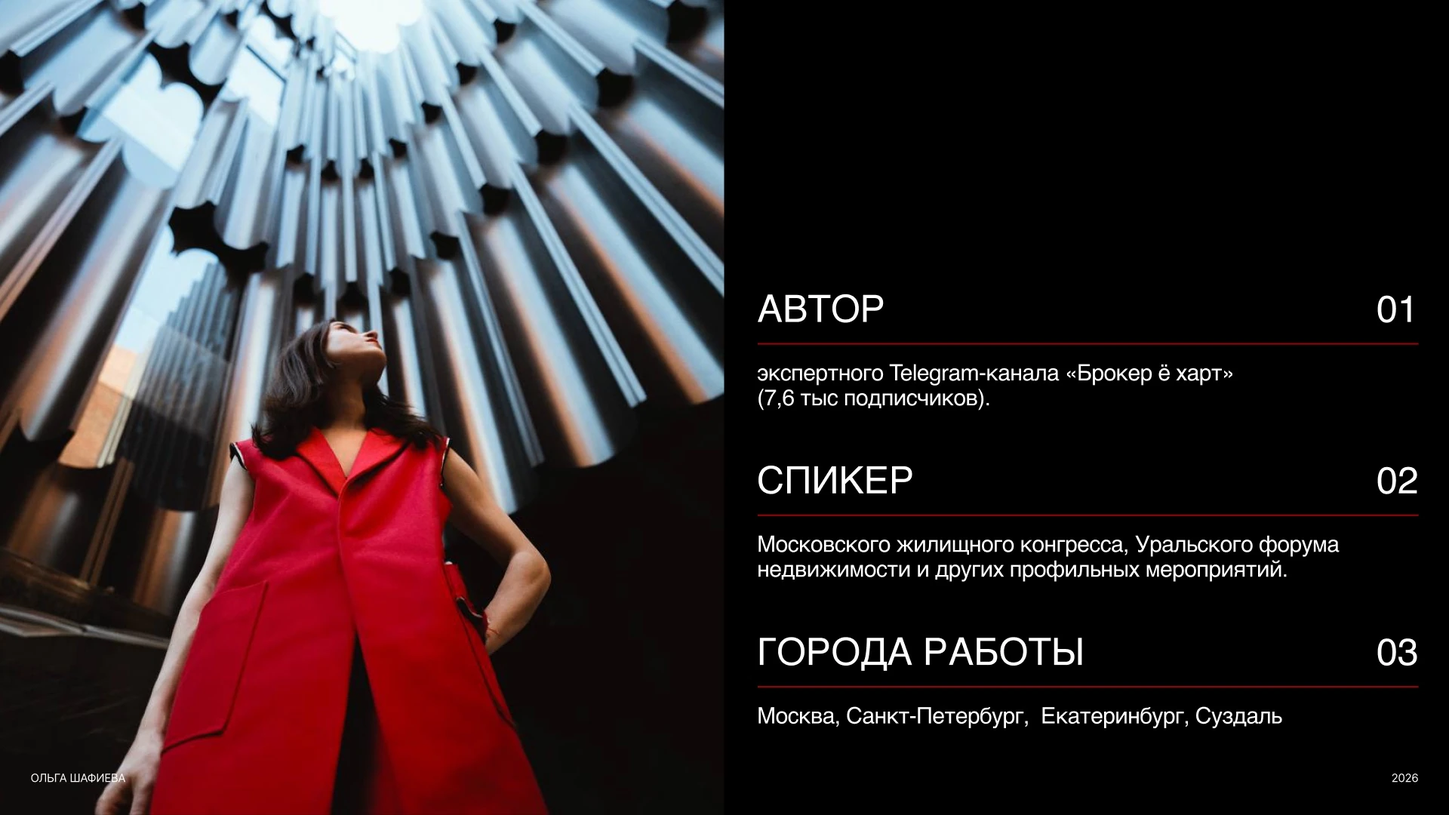
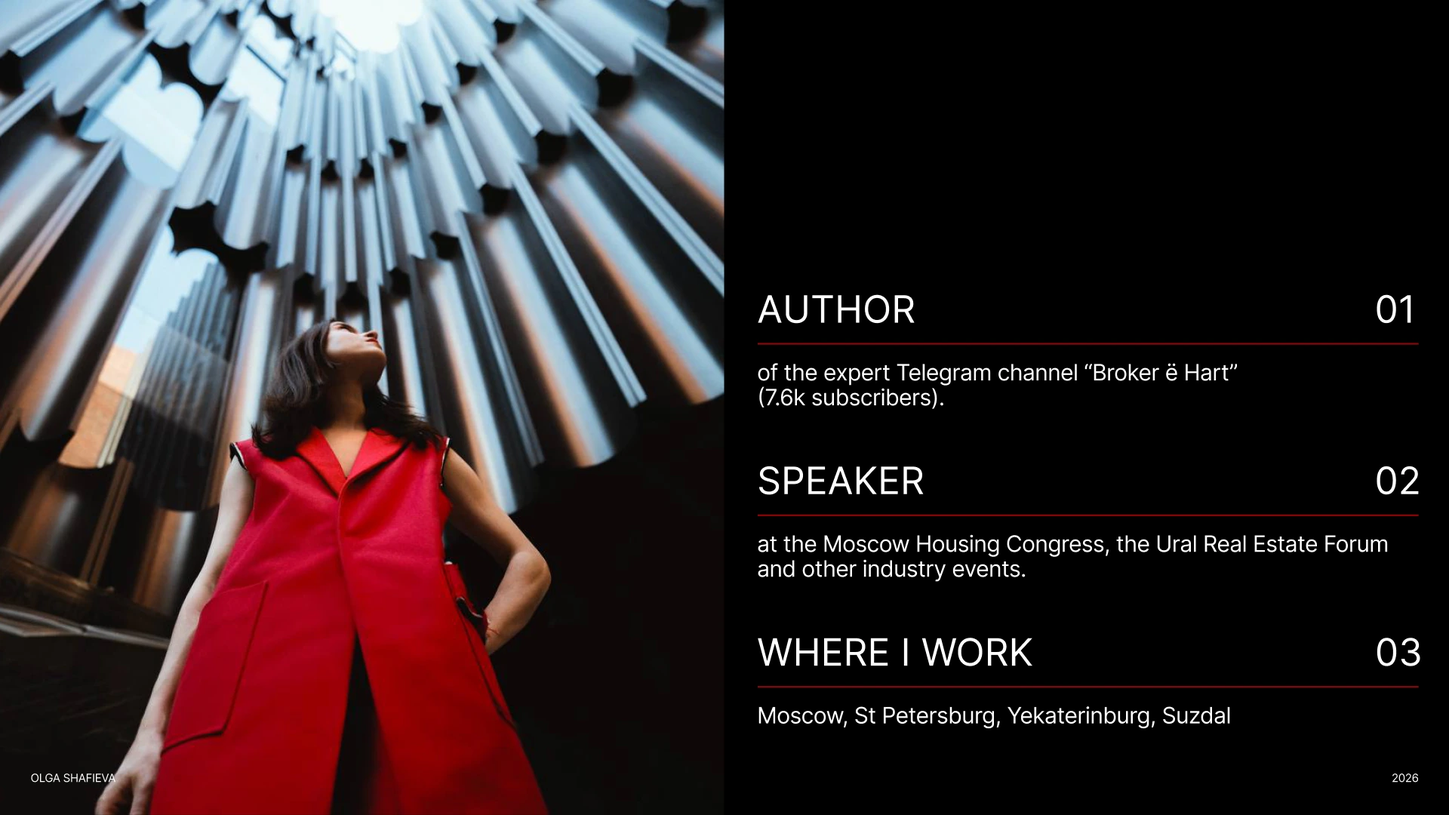
Update Olga Shafieva case with revised English slides

diff --git a/ru/projects/olga-shafieva.html b/ru/projects/olga-shafieva.html
@@ -19,14 +19,14 @@
   <meta property="og:url" content="https://byannadmitrieva.com/ru/projects/olga-shafieva.html">
   <meta property="og:site_name" content="Портфолио Анны Дмитриевой">
   <meta property="og:locale" content="ru_RU">
-  <meta property="og:image" content="https://byannadmitrieva.com/assets/projects/olga-shafieva/olga-01.webp">
+  <meta property="og:image" content="https://byannadmitrieva.com/assets/projects/olga-shafieva/olga-01.webp?v=20261105-en">
   <meta property="og:image:width" content="1920">
   <meta property="og:image:height" content="1080">
   <meta property="og:image:alt" content="Обложка презентации Ольги Шафиевой с портретом на светлом фоне">
   <meta name="twitter:card" content="summary_large_image">
   <meta name="twitter:title" content="Ольга Шафиева — Anna Dmitrieva">
   <meta name="twitter:description" content="Имиджевая презентация на пересечении недвижимости и искусства. Два направления личного бренда — в одной визуальной истории.">
-  <meta name="twitter:image" content="https://byannadmitrieva.com/assets/projects/olga-shafieva/olga-01.webp">
+  <meta name="twitter:image" content="https://byannadmitrieva.com/assets/projects/olga-shafieva/olga-01.webp?v=20261105-en">
   <meta name="twitter:image:alt" content="Обложка презентации Ольги Шафиевой с портретом на светлом фоне">
   <link rel="preload" href="../../assets/fonts/inter-latin.woff2" as="font" type="font/woff2" crossorigin>
   <link rel="preload" href="../../assets/fonts/inter-cyrillic.woff2" as="font" type="font/woff2" crossorigin>
@@ -73,23 +73,23 @@
         </div>
       </div>
       <div class="case-gallery olga-gallery">
-        <figure class="media wide reveal-media"><a href="../../assets/projects/olga-shafieva/olga-01.webp" target="_blank" rel="noopener noreferrer" aria-label="Открыть слайд в полном размере: Обложка презентации Ольги Шафиевой с портретом на светлом фоне"><img src="../../assets/projects/olga-shafieva/olga-01.webp" alt="Обложка презентации Ольги Шафиевой с портретом на светлом фоне" fetchpriority="high" decoding="async" width="1920" height="1080"></a></figure>
+        <figure class="media wide reveal-media"><a href="../../assets/projects/olga-shafieva/olga-01.webp?v=20261105-en" target="_blank" rel="noopener noreferrer" aria-label="Открыть слайд в полном размере: Обложка презентации Ольги Шафиевой с портретом на светлом фоне"><img src="../../assets/projects/olga-shafieva/olga-01.webp?v=20261105-en" alt="Обложка презентации Ольги Шафиевой с портретом на светлом фоне" fetchpriority="high" decoding="async" width="1920" height="1080"></a></figure>
         <p class="case-caption">Каждый слайд можно открыть в полном размере.</p>
         <div class="case-story"><h2>Две экспертизы.<br>Один визуальный язык.</h2><p>Недвижимость и арт-консалтинг объединены через личность эксперта. Портреты, выразительная типографика и архитектурная фотография формируют цельный образ.</p></div>
-        <figure class="media wide reveal-media"><a href="../../assets/projects/olga-shafieva/olga-02.webp" target="_blank" rel="noopener noreferrer" aria-label="Открыть слайд в полном размере: Два направления деятельности: брокеридж и арт-консалтинг"><img src="../../assets/projects/olga-shafieva/olga-02.webp" alt="Два направления деятельности: брокеридж и арт-консалтинг" loading="lazy" decoding="async" width="1920" height="1080"></a></figure>
+        <figure class="media wide reveal-media"><a href="../../assets/projects/olga-shafieva/olga-02.webp?v=20261105-en" target="_blank" rel="noopener noreferrer" aria-label="Открыть слайд в полном размере: Два направления деятельности: брокеридж и арт-консалтинг"><img src="../../assets/projects/olga-shafieva/olga-02.webp?v=20261105-en" alt="Два направления деятельности: брокеридж и арт-консалтинг" loading="lazy" decoding="async" width="1920" height="1080"></a></figure>
         <div class="case-story"><h2>Недвижимость<br>через личность.</h2><p>Чередование портретных и информационных слайдов задаёт ритм презентации. Личная история становится отправной точкой для знакомства с экспертизой и подходом к работе.</p></div>
-        <figure class="media wide reveal-media"><a href="../../assets/projects/olga-shafieva/olga-03.webp" target="_blank" rel="noopener noreferrer" aria-label="Открыть слайд в полном размере: Слайд о брокеридже с портретом в архитектурном пространстве"><img src="../../assets/projects/olga-shafieva/olga-03.webp" alt="Слайд о брокеридже с портретом в архитектурном пространстве" loading="lazy" decoding="async" width="1920" height="1080"></a></figure>
-        <figure class="media pair-left reveal-media"><a href="../../assets/projects/olga-shafieva/olga-04.webp" target="_blank" rel="noopener noreferrer" aria-label="Открыть слайд в полном размере: Портрет в красном и информация об авторе, выступлениях и городах работы"><img src="../../assets/projects/olga-shafieva/olga-04.webp" alt="Портрет в красном и информация об авторе, выступлениях и городах работы" loading="lazy" decoding="async" width="1920" height="1080"></a></figure>
-        <figure class="media pair-right reveal-media"><a href="../../assets/projects/olga-shafieva/olga-05.webp" target="_blank" rel="noopener noreferrer" aria-label="Открыть слайд в полном размере: Опыт в недвижимости: портрет и три блока экспертизы"><img src="../../assets/projects/olga-shafieva/olga-05.webp" alt="Опыт в недвижимости: портрет и три блока экспертизы" loading="lazy" decoding="async" width="1920" height="1080"></a></figure>
+        <figure class="media wide reveal-media"><a href="../../assets/projects/olga-shafieva/olga-03.webp?v=20261105-en" target="_blank" rel="noopener noreferrer" aria-label="Открыть слайд в полном размере: Слайд о брокеридже с портретом в архитектурном пространстве"><img src="../../assets/projects/olga-shafieva/olga-03.webp?v=20261105-en" alt="Слайд о брокеридже с портретом в архитектурном пространстве" loading="lazy" decoding="async" width="1920" height="1080"></a></figure>
+        <figure class="media pair-left reveal-media"><a href="../../assets/projects/olga-shafieva/olga-04.webp?v=20261105-en" target="_blank" rel="noopener noreferrer" aria-label="Открыть слайд в полном размере: Портрет в красном и информация об авторе, выступлениях и городах работы"><img src="../../assets/projects/olga-shafieva/olga-04.webp?v=20261105-en" alt="Портрет в красном и информация об авторе, выступлениях и городах работы" loading="lazy" decoding="async" width="1920" height="1080"></a></figure>
+        <figure class="media pair-right reveal-media"><a href="../../assets/projects/olga-shafieva/olga-05.webp?v=20261105-en" target="_blank" rel="noopener noreferrer" aria-label="Открыть слайд в полном размере: Опыт в недвижимости: портрет и три блока экспертизы"><img src="../../assets/projects/olga-shafieva/olga-05.webp?v=20261105-en" alt="Опыт в недвижимости: портрет и три блока экспертизы" loading="lazy" decoding="async" width="1920" height="1080"></a></figure>
         <div class="case-story"><h2>От образа<br>к ясной структуре.</h2><p>Слайды о покупке и продаже выстроены по одной сетке: этапы работы слева, интерьерная фотография справа. Повторяемая композиция помогает ориентироваться в информации.</p></div>
-        <figure class="media pair-left reveal-media"><a href="../../assets/projects/olga-shafieva/olga-06.webp" target="_blank" rel="noopener noreferrer" aria-label="Открыть слайд в полном размере: Покупка недвижимости: этапы работы и интерьер с террасой"><img src="../../assets/projects/olga-shafieva/olga-06.webp" alt="Покупка недвижимости: этапы работы и интерьер с террасой" loading="lazy" decoding="async" width="1920" height="1080"></a></figure>
-        <figure class="media pair-right reveal-media"><a href="../../assets/projects/olga-shafieva/olga-07.webp" target="_blank" rel="noopener noreferrer" aria-label="Открыть слайд в полном размере: Продажа недвижимости: этапы работы и интерьер квартиры"><img src="../../assets/projects/olga-shafieva/olga-07.webp" alt="Продажа недвижимости: этапы работы и интерьер квартиры" loading="lazy" decoding="async" width="1920" height="1080"></a></figure>
+        <figure class="media pair-left reveal-media"><a href="../../assets/projects/olga-shafieva/olga-06.webp?v=20261105-en" target="_blank" rel="noopener noreferrer" aria-label="Открыть слайд в полном размере: Покупка недвижимости: этапы работы и интерьер с террасой"><img src="../../assets/projects/olga-shafieva/olga-06.webp?v=20261105-en" alt="Покупка недвижимости: этапы работы и интерьер с террасой" loading="lazy" decoding="async" width="1920" height="1080"></a></figure>
+        <figure class="media pair-right reveal-media"><a href="../../assets/projects/olga-shafieva/olga-07.webp?v=20261105-en" target="_blank" rel="noopener noreferrer" aria-label="Открыть слайд в полном размере: Продажа недвижимости: этапы работы и интерьер квартиры"><img src="../../assets/projects/olga-shafieva/olga-07.webp?v=20261105-en" alt="Продажа недвижимости: этапы работы и интерьер квартиры" loading="lazy" decoding="async" width="1920" height="1080"></a></figure>
         <div class="case-story"><h2>Искусство как продолжение<br>пространства.</h2><p>Во второй части меняется настроение: скульптура, насыщенный синий и красный акценты раскрывают тему арт-консалтинга. Общая типографическая система связывает оба направления.</p></div>
-        <figure class="media wide reveal-media"><a href="../../assets/projects/olga-shafieva/olga-09.webp" target="_blank" rel="noopener noreferrer" aria-label="Открыть слайд в полном размере: Арт-консалтинг: портрет в синем рядом со скульптурой"><img src="../../assets/projects/olga-shafieva/olga-09.webp" alt="Арт-консалтинг: портрет в синем рядом со скульптурой" loading="lazy" decoding="async" width="1920" height="1080"></a></figure>
-        <figure class="media wide reveal-media"><a href="../../assets/projects/olga-shafieva/olga-10.webp" target="_blank" rel="noopener noreferrer" aria-label="Открыть слайд в полном размере: Опыт в арт-консалтинге: красная композиция и портрет"><img src="../../assets/projects/olga-shafieva/olga-10.webp" alt="Опыт в арт-консалтинге: красная композиция и портрет" loading="lazy" decoding="async" width="1920" height="1080"></a></figure>
+        <figure class="media wide reveal-media"><a href="../../assets/projects/olga-shafieva/olga-09.webp?v=20261105-en" target="_blank" rel="noopener noreferrer" aria-label="Открыть слайд в полном размере: Арт-консалтинг: портрет в синем рядом со скульптурой"><img src="../../assets/projects/olga-shafieva/olga-09.webp?v=20261105-en" alt="Арт-консалтинг: портрет в синем рядом со скульптурой" loading="lazy" decoding="async" width="1920" height="1080"></a></figure>
+        <figure class="media wide reveal-media"><a href="../../assets/projects/olga-shafieva/olga-10.webp?v=20261105-en" target="_blank" rel="noopener noreferrer" aria-label="Открыть слайд в полном размере: Опыт в арт-консалтинге: красная композиция и портрет"><img src="../../assets/projects/olga-shafieva/olga-10.webp?v=20261105-en" alt="Опыт в арт-консалтинге: красная композиция и портрет" loading="lazy" decoding="async" width="1920" height="1080"></a></figure>
         <div class="case-story"><h2>Разные задачи.<br>Цельная подача.</h2><p>Архитектура, интерьеры и искусство складываются в единую историю. Крупные заголовки, контрастные фотографии и спокойные текстовые блоки удерживают последовательность презентации.</p></div>
-        <figure class="media wide reveal-media"><a href="../../assets/projects/olga-shafieva/olga-08.webp" target="_blank" rel="noopener noreferrer" aria-label="Открыть слайд в полном размере: Специализация на первичном и вторичном рынках недвижимости"><img src="../../assets/projects/olga-shafieva/olga-08.webp" alt="Специализация на первичном и вторичном рынках недвижимости" loading="lazy" decoding="async" width="1920" height="1080"></a></figure>
-        <figure class="media wide reveal-media"><a href="../../assets/projects/olga-shafieva/olga-11.webp" target="_blank" rel="noopener noreferrer" aria-label="Открыть слайд в полном размере: Работа с частными клиентами, девелоперами и дизайнерами интерьера"><img src="../../assets/projects/olga-shafieva/olga-11.webp" alt="Работа с частными клиентами, девелоперами и дизайнерами интерьера" loading="lazy" decoding="async" width="1920" height="1080"></a></figure>
+        <figure class="media wide reveal-media"><a href="../../assets/projects/olga-shafieva/olga-08.webp?v=20261105-en" target="_blank" rel="noopener noreferrer" aria-label="Открыть слайд в полном размере: Специализация на первичном и вторичном рынках недвижимости"><img src="../../assets/projects/olga-shafieva/olga-08.webp?v=20261105-en" alt="Специализация на первичном и вторичном рынках недвижимости" loading="lazy" decoding="async" width="1920" height="1080"></a></figure>
+        <figure class="media wide reveal-media"><a href="../../assets/projects/olga-shafieva/olga-11.webp?v=20261105-en" target="_blank" rel="noopener noreferrer" aria-label="Открыть слайд в полном размере: Работа с частными клиентами, девелоперами и дизайнерами интерьера"><img src="../../assets/projects/olga-shafieva/olga-11.webp?v=20261105-en" alt="Работа с частными клиентами, девелоперами и дизайнерами интерьера" loading="lazy" decoding="async" width="1920" height="1080"></a></figure>
         <div class="case-credits"><p>Анна Дмитриева<br>Дизайн презентации</p><p>Ольга Шафиева<br>Недвижимость и арт-консалтинг</p></div>
       </div>
       <a class="next-project" href="beauty-value.html" style="--next:#8ca4b6">

diff --git a/de/projects/olga-shafieva.html b/de/projects/olga-shafieva.html
@@ -19,14 +19,14 @@
   <meta property="og:url" content="https://byannadmitrieva.com/de/projects/olga-shafieva.html">
   <meta property="og:site_name" content="Portfolio von Anna Dmitrieva">
   <meta property="og:locale" content="de_DE">
-  <meta property="og:image" content="https://byannadmitrieva.com/assets/projects/olga-shafieva/olga-01.webp">
+  <meta property="og:image" content="https://byannadmitrieva.com/assets/projects/olga-shafieva/olga-01.webp?v=20261105-en">
   <meta property="og:image:width" content="1920">
   <meta property="og:image:height" content="1080">
   <meta property="og:image:alt" content="Präsentationstitel für Olga Shafieva mit Porträt vor hellem Hintergrund">
   <meta name="twitter:card" content="summary_large_image">
   <meta name="twitter:title" content="Olga Shafieva — Anna Dmitrieva">
   <meta name="twitter:description" content="Eine persönliche Markenpräsentation zwischen Immobilien und Kunst. Zwei Kompetenzbereiche, verbunden in einer visuellen Geschichte.">
-  <meta name="twitter:image" content="https://byannadmitrieva.com/assets/projects/olga-shafieva/olga-01.webp">
+  <meta name="twitter:image" content="https://byannadmitrieva.com/assets/projects/olga-shafieva/olga-01.webp?v=20261105-en">
   <meta name="twitter:image:alt" content="Präsentationstitel für Olga Shafieva mit Porträt vor hellem Hintergrund">
   <link rel="preload" href="../../assets/fonts/inter-latin.woff2" as="font" type="font/woff2" crossorigin>
   <link rel="stylesheet" href="../../styles.css?v=20261104-olga">
@@ -72,23 +72,23 @@
         </div>
       </div>
       <div class="case-gallery olga-gallery">
-        <figure class="media wide reveal-media"><a href="../../assets/projects/olga-shafieva/olga-01.webp" target="_blank" rel="noopener noreferrer" aria-label="Folie in voller Größe öffnen: Präsentationstitel für Olga Shafieva mit Porträt vor hellem Hintergrund"><img src="../../assets/projects/olga-shafieva/olga-01.webp" alt="Präsentationstitel für Olga Shafieva mit Porträt vor hellem Hintergrund" fetchpriority="high" decoding="async" width="1920" height="1080"></a></figure>
+        <figure class="media wide reveal-media"><a href="../../assets/projects/olga-shafieva/olga-01.webp?v=20261105-en" target="_blank" rel="noopener noreferrer" aria-label="Folie in voller Größe öffnen: Präsentationstitel für Olga Shafieva mit Porträt vor hellem Hintergrund"><img src="../../assets/projects/olga-shafieva/olga-01.webp?v=20261105-en" alt="Präsentationstitel für Olga Shafieva mit Porträt vor hellem Hintergrund" fetchpriority="high" decoding="async" width="1920" height="1080"></a></figure>
         <p class="case-caption">Jede Folie lässt sich in voller Größe öffnen.</p>
         <div class="case-story"><h2>Zwei Disziplinen.<br>Eine visuelle Sprache.</h2><p>Immobilien und Kunstberatung werden durch die Persönlichkeit der Expertin verbunden. Porträts, ausdrucksstarke Typografie und Architekturfotografie schaffen einen stimmigen Auftritt.</p></div>
-        <figure class="media wide reveal-media"><a href="../../assets/projects/olga-shafieva/olga-02.webp" target="_blank" rel="noopener noreferrer" aria-label="Folie in voller Größe öffnen: Zwei Tätigkeitsbereiche: Immobilienvermittlung und Kunstberatung"><img src="../../assets/projects/olga-shafieva/olga-02.webp" alt="Zwei Tätigkeitsbereiche: Immobilienvermittlung und Kunstberatung" loading="lazy" decoding="async" width="1920" height="1080"></a></figure>
+        <figure class="media wide reveal-media"><a href="../../assets/projects/olga-shafieva/olga-02.webp?v=20261105-en" target="_blank" rel="noopener noreferrer" aria-label="Folie in voller Größe öffnen: Zwei Tätigkeitsbereiche: Immobilienvermittlung und Kunstberatung"><img src="../../assets/projects/olga-shafieva/olga-02.webp?v=20261105-en" alt="Zwei Tätigkeitsbereiche: Immobilienvermittlung und Kunstberatung" loading="lazy" decoding="async" width="1920" height="1080"></a></figure>
         <div class="case-story"><h2>Immobilien.<br>Persönlich betrachtet.</h2><p>Porträts und Informationsfolien wechseln sich ab und geben der Präsentation ihren Rhythmus. Die persönliche Geschichte führt in die Expertise und Arbeitsweise ein.</p></div>
-        <figure class="media wide reveal-media"><a href="../../assets/projects/olga-shafieva/olga-03.webp" target="_blank" rel="noopener noreferrer" aria-label="Folie in voller Größe öffnen: Immobilienvermittlung mit Porträt in architektonischer Umgebung"><img src="../../assets/projects/olga-shafieva/olga-03.webp" alt="Immobilienvermittlung mit Porträt in architektonischer Umgebung" loading="lazy" decoding="async" width="1920" height="1080"></a></figure>
-        <figure class="media pair-left reveal-media"><a href="../../assets/projects/olga-shafieva/olga-04.webp" target="_blank" rel="noopener noreferrer" aria-label="Folie in voller Größe öffnen: Porträt in Rot mit Informationen zu Publikationen, Vorträgen und Standorten"><img src="../../assets/projects/olga-shafieva/olga-04.webp" alt="Porträt in Rot mit Informationen zu Publikationen, Vorträgen und Standorten" loading="lazy" decoding="async" width="1920" height="1080"></a></figure>
-        <figure class="media pair-right reveal-media"><a href="../../assets/projects/olga-shafieva/olga-05.webp" target="_blank" rel="noopener noreferrer" aria-label="Folie in voller Größe öffnen: Immobilienerfahrung mit Porträt und drei Kompetenzbereichen"><img src="../../assets/projects/olga-shafieva/olga-05.webp" alt="Immobilienerfahrung mit Porträt und drei Kompetenzbereichen" loading="lazy" decoding="async" width="1920" height="1080"></a></figure>
+        <figure class="media wide reveal-media"><a href="../../assets/projects/olga-shafieva/olga-03.webp?v=20261105-en" target="_blank" rel="noopener noreferrer" aria-label="Folie in voller Größe öffnen: Immobilienvermittlung mit Porträt in architektonischer Umgebung"><img src="../../assets/projects/olga-shafieva/olga-03.webp?v=20261105-en" alt="Immobilienvermittlung mit Porträt in architektonischer Umgebung" loading="lazy" decoding="async" width="1920" height="1080"></a></figure>
+        <figure class="media pair-left reveal-media"><a href="../../assets/projects/olga-shafieva/olga-04.webp?v=20261105-en" target="_blank" rel="noopener noreferrer" aria-label="Folie in voller Größe öffnen: Porträt in Rot mit Informationen zu Publikationen, Vorträgen und Standorten"><img src="../../assets/projects/olga-shafieva/olga-04.webp?v=20261105-en" alt="Porträt in Rot mit Informationen zu Publikationen, Vorträgen und Standorten" loading="lazy" decoding="async" width="1920" height="1080"></a></figure>
+        <figure class="media pair-right reveal-media"><a href="../../assets/projects/olga-shafieva/olga-05.webp?v=20261105-en" target="_blank" rel="noopener noreferrer" aria-label="Folie in voller Größe öffnen: Immobilienerfahrung mit Porträt und drei Kompetenzbereichen"><img src="../../assets/projects/olga-shafieva/olga-05.webp?v=20261105-en" alt="Immobilienerfahrung mit Porträt und drei Kompetenzbereichen" loading="lazy" decoding="async" width="1920" height="1080"></a></figure>
         <div class="case-story"><h2>Vom Ausdruck<br>zur klaren Struktur.</h2><p>Kauf und Verkauf folgen demselben Raster: Arbeitsschritte links, Interieurfotografie rechts. Die wiederkehrende Komposition erleichtert die Orientierung.</p></div>
-        <figure class="media pair-left reveal-media"><a href="../../assets/projects/olga-shafieva/olga-06.webp" target="_blank" rel="noopener noreferrer" aria-label="Folie in voller Größe öffnen: Ablauf beim Immobilienkauf mit Interieur und Terrasse"><img src="../../assets/projects/olga-shafieva/olga-06.webp" alt="Ablauf beim Immobilienkauf mit Interieur und Terrasse" loading="lazy" decoding="async" width="1920" height="1080"></a></figure>
-        <figure class="media pair-right reveal-media"><a href="../../assets/projects/olga-shafieva/olga-07.webp" target="_blank" rel="noopener noreferrer" aria-label="Folie in voller Größe öffnen: Ablauf beim Immobilienverkauf mit Wohnungseinrichtung"><img src="../../assets/projects/olga-shafieva/olga-07.webp" alt="Ablauf beim Immobilienverkauf mit Wohnungseinrichtung" loading="lazy" decoding="async" width="1920" height="1080"></a></figure>
+        <figure class="media pair-left reveal-media"><a href="../../assets/projects/olga-shafieva/olga-06.webp?v=20261105-en" target="_blank" rel="noopener noreferrer" aria-label="Folie in voller Größe öffnen: Ablauf beim Immobilienkauf mit Interieur und Terrasse"><img src="../../assets/projects/olga-shafieva/olga-06.webp?v=20261105-en" alt="Ablauf beim Immobilienkauf mit Interieur und Terrasse" loading="lazy" decoding="async" width="1920" height="1080"></a></figure>
+        <figure class="media pair-right reveal-media"><a href="../../assets/projects/olga-shafieva/olga-07.webp?v=20261105-en" target="_blank" rel="noopener noreferrer" aria-label="Folie in voller Größe öffnen: Ablauf beim Immobilienverkauf mit Wohnungseinrichtung"><img src="../../assets/projects/olga-shafieva/olga-07.webp?v=20261105-en" alt="Ablauf beim Immobilienverkauf mit Wohnungseinrichtung" loading="lazy" decoding="async" width="1920" height="1080"></a></figure>
         <div class="case-story"><h2>Kunst als Erweiterung<br>des Raumes.</h2><p>Im zweiten Kapitel verändert sich die Stimmung. Skulptur, kräftiges Blau und rote Akzente führen in die Kunstberatung ein. Das gemeinsame typografische System verbindet beide Bereiche.</p></div>
-        <figure class="media wide reveal-media"><a href="../../assets/projects/olga-shafieva/olga-09.webp" target="_blank" rel="noopener noreferrer" aria-label="Folie in voller Größe öffnen: Kunstberatung mit blauem Porträt neben einer Skulptur"><img src="../../assets/projects/olga-shafieva/olga-09.webp" alt="Kunstberatung mit blauem Porträt neben einer Skulptur" loading="lazy" decoding="async" width="1920" height="1080"></a></figure>
-        <figure class="media wide reveal-media"><a href="../../assets/projects/olga-shafieva/olga-10.webp" target="_blank" rel="noopener noreferrer" aria-label="Folie in voller Größe öffnen: Erfahrung in der Kunstberatung mit roter Komposition und Porträt"><img src="../../assets/projects/olga-shafieva/olga-10.webp" alt="Erfahrung in der Kunstberatung mit roter Komposition und Porträt" loading="lazy" decoding="async" width="1920" height="1080"></a></figure>
+        <figure class="media wide reveal-media"><a href="../../assets/projects/olga-shafieva/olga-09.webp?v=20261105-en" target="_blank" rel="noopener noreferrer" aria-label="Folie in voller Größe öffnen: Kunstberatung mit blauem Porträt neben einer Skulptur"><img src="../../assets/projects/olga-shafieva/olga-09.webp?v=20261105-en" alt="Kunstberatung mit blauem Porträt neben einer Skulptur" loading="lazy" decoding="async" width="1920" height="1080"></a></figure>
+        <figure class="media wide reveal-media"><a href="../../assets/projects/olga-shafieva/olga-10.webp?v=20261105-en" target="_blank" rel="noopener noreferrer" aria-label="Folie in voller Größe öffnen: Erfahrung in der Kunstberatung mit roter Komposition und Porträt"><img src="../../assets/projects/olga-shafieva/olga-10.webp?v=20261105-en" alt="Erfahrung in der Kunstberatung mit roter Komposition und Porträt" loading="lazy" decoding="async" width="1920" height="1080"></a></figure>
         <div class="case-story"><h2>Vielfältige Aufgaben.<br>Ein stimmiger Auftritt.</h2><p>Architektur, Interieurs und Kunst verbinden sich zu einer Geschichte. Große Überschriften, kontrastreiche Fotografien und ruhige Textblöcke strukturieren die Präsentation.</p></div>
-        <figure class="media wide reveal-media"><a href="../../assets/projects/olga-shafieva/olga-08.webp" target="_blank" rel="noopener noreferrer" aria-label="Folie in voller Größe öffnen: Spezialisierung auf Neubauten und Bestandsimmobilien"><img src="../../assets/projects/olga-shafieva/olga-08.webp" alt="Spezialisierung auf Neubauten und Bestandsimmobilien" loading="lazy" decoding="async" width="1920" height="1080"></a></figure>
-        <figure class="media wide reveal-media"><a href="../../assets/projects/olga-shafieva/olga-11.webp" target="_blank" rel="noopener noreferrer" aria-label="Folie in voller Größe öffnen: Kunstberatung für Privatkunden, Projektentwickler und Innenarchitekten"><img src="../../assets/projects/olga-shafieva/olga-11.webp" alt="Kunstberatung für Privatkunden, Projektentwickler und Innenarchitekten" loading="lazy" decoding="async" width="1920" height="1080"></a></figure>
+        <figure class="media wide reveal-media"><a href="../../assets/projects/olga-shafieva/olga-08.webp?v=20261105-en" target="_blank" rel="noopener noreferrer" aria-label="Folie in voller Größe öffnen: Spezialisierung auf Neubauten und Bestandsimmobilien"><img src="../../assets/projects/olga-shafieva/olga-08.webp?v=20261105-en" alt="Spezialisierung auf Neubauten und Bestandsimmobilien" loading="lazy" decoding="async" width="1920" height="1080"></a></figure>
+        <figure class="media wide reveal-media"><a href="../../assets/projects/olga-shafieva/olga-11.webp?v=20261105-en" target="_blank" rel="noopener noreferrer" aria-label="Folie in voller Größe öffnen: Kunstberatung für Privatkunden, Projektentwickler und Innenarchitekten"><img src="../../assets/projects/olga-shafieva/olga-11.webp?v=20261105-en" alt="Kunstberatung für Privatkunden, Projektentwickler und Innenarchitekten" loading="lazy" decoding="async" width="1920" height="1080"></a></figure>
         <div class="case-credits"><p>Anna Dmitrieva<br>Präsentationsdesign</p><p>Olga Shafieva<br>Immobilien &amp; Kunstberatung</p></div>
       </div>
       <a class="next-project" href="beauty-value.html" style="--next:#8ca4b6">

diff --git a/projects/olga-shafieva.html b/projects/olga-shafieva.html
@@ -19,14 +19,14 @@
   <meta property="og:url" content="https://byannadmitrieva.com/projects/olga-shafieva.html">
   <meta property="og:site_name" content="Anna Dmitrieva Portfolio">
   <meta property="og:locale" content="en_US">
-  <meta property="og:image" content="https://byannadmitrieva.com/assets/projects/olga-shafieva/olga-01.webp">
+  <meta property="og:image" content="https://byannadmitrieva.com/assets/projects/olga-shafieva/olga-01.webp?v=20261105-en">
   <meta property="og:image:width" content="1920">
   <meta property="og:image:height" content="1080">
   <meta property="og:image:alt" content="Olga Shafieva presentation cover with a portrait on a light background">
   <meta name="twitter:card" content="summary_large_image">
   <meta name="twitter:title" content="Olga Shafieva — Anna Dmitrieva">
   <meta name="twitter:description" content="A personal brand presentation at the intersection of real estate and art. Two areas of expertise, brought together in one visual story.">
-  <meta name="twitter:image" content="https://byannadmitrieva.com/assets/projects/olga-shafieva/olga-01.webp">
+  <meta name="twitter:image" content="https://byannadmitrieva.com/assets/projects/olga-shafieva/olga-01.webp?v=20261105-en">
   <meta name="twitter:image:alt" content="Olga Shafieva presentation cover with a portrait on a light background">
   <link rel="preload" href="../assets/fonts/inter-latin.woff2" as="font" type="font/woff2" crossorigin>
   <link rel="stylesheet" href="../styles.css?v=20261104-olga">
@@ -72,23 +72,23 @@
         </div>
       </div>
       <div class="case-gallery olga-gallery">
-        <figure class="media wide reveal-media"><a href="../assets/projects/olga-shafieva/olga-01.webp" target="_blank" rel="noopener noreferrer" aria-label="Open slide at full size: Olga Shafieva presentation cover with a portrait on a light background"><img src="../assets/projects/olga-shafieva/olga-01.webp" alt="Olga Shafieva presentation cover with a portrait on a light background" fetchpriority="high" decoding="async" width="1920" height="1080"></a></figure>
+        <figure class="media wide reveal-media"><a href="../assets/projects/olga-shafieva/olga-01.webp?v=20261105-en" target="_blank" rel="noopener noreferrer" aria-label="Open slide at full size: Olga Shafieva presentation cover with a portrait on a light background"><img src="../assets/projects/olga-shafieva/olga-01.webp?v=20261105-en" alt="Olga Shafieva presentation cover with a portrait on a light background" fetchpriority="high" decoding="async" width="1920" height="1080"></a></figure>
         <p class="case-caption">Open any slide to view it at full size.</p>
         <div class="case-story"><h2>Two disciplines.<br>One visual language.</h2><p>Real estate and art consultancy meet through the person behind the expertise. Portraits, expressive typography and architectural photography establish a coherent personal presence.</p></div>
-        <figure class="media wide reveal-media"><a href="../assets/projects/olga-shafieva/olga-02.webp" target="_blank" rel="noopener noreferrer" aria-label="Open slide at full size: Two areas of expertise: real estate brokerage and art consultancy"><img src="../assets/projects/olga-shafieva/olga-02.webp" alt="Two areas of expertise: real estate brokerage and art consultancy" loading="lazy" decoding="async" width="1920" height="1080"></a></figure>
+        <figure class="media wide reveal-media"><a href="../assets/projects/olga-shafieva/olga-02.webp?v=20261105-en" target="_blank" rel="noopener noreferrer" aria-label="Open slide at full size: Two areas of expertise: real estate brokerage and art consultancy"><img src="../assets/projects/olga-shafieva/olga-02.webp?v=20261105-en" alt="Two areas of expertise: real estate brokerage and art consultancy" loading="lazy" decoding="async" width="1920" height="1080"></a></figure>
         <div class="case-story"><h2>Real estate.<br>A personal perspective.</h2><p>Portraits alternate with information to set the pace. A personal story introduces the expertise and approach behind the services.</p></div>
-        <figure class="media wide reveal-media"><a href="../assets/projects/olga-shafieva/olga-03.webp" target="_blank" rel="noopener noreferrer" aria-label="Open slide at full size: Real estate brokerage chapter with a portrait in an architectural setting"><img src="../assets/projects/olga-shafieva/olga-03.webp" alt="Real estate brokerage chapter with a portrait in an architectural setting" loading="lazy" decoding="async" width="1920" height="1080"></a></figure>
-        <figure class="media pair-left reveal-media"><a href="../assets/projects/olga-shafieva/olga-04.webp" target="_blank" rel="noopener noreferrer" aria-label="Open slide at full size: Portrait in red alongside authorship, speaking and location details"><img src="../assets/projects/olga-shafieva/olga-04.webp" alt="Portrait in red alongside authorship, speaking and location details" loading="lazy" decoding="async" width="1920" height="1080"></a></figure>
-        <figure class="media pair-right reveal-media"><a href="../assets/projects/olga-shafieva/olga-05.webp" target="_blank" rel="noopener noreferrer" aria-label="Open slide at full size: Real estate experience presented through a portrait and three areas of expertise"><img src="../assets/projects/olga-shafieva/olga-05.webp" alt="Real estate experience presented through a portrait and three areas of expertise" loading="lazy" decoding="async" width="1920" height="1080"></a></figure>
+        <figure class="media wide reveal-media"><a href="../assets/projects/olga-shafieva/olga-03.webp?v=20261105-en" target="_blank" rel="noopener noreferrer" aria-label="Open slide at full size: Real estate brokerage chapter with a portrait in an architectural setting"><img src="../assets/projects/olga-shafieva/olga-03.webp?v=20261105-en" alt="Real estate brokerage chapter with a portrait in an architectural setting" loading="lazy" decoding="async" width="1920" height="1080"></a></figure>
+        <figure class="media pair-left reveal-media"><a href="../assets/projects/olga-shafieva/olga-04.webp?v=20261105-en" target="_blank" rel="noopener noreferrer" aria-label="Open slide at full size: Portrait in red alongside authorship, speaking and location details"><img src="../assets/projects/olga-shafieva/olga-04.webp?v=20261105-en" alt="Portrait in red alongside authorship, speaking and location details" loading="lazy" decoding="async" width="1920" height="1080"></a></figure>
+        <figure class="media pair-right reveal-media"><a href="../assets/projects/olga-shafieva/olga-05.webp?v=20261105-en" target="_blank" rel="noopener noreferrer" aria-label="Open slide at full size: Real estate experience presented through a portrait and three areas of expertise"><img src="../assets/projects/olga-shafieva/olga-05.webp?v=20261105-en" alt="Real estate experience presented through a portrait and three areas of expertise" loading="lazy" decoding="async" width="1920" height="1080"></a></figure>
         <div class="case-story"><h2>From expression<br>to a clear structure.</h2><p>Buying and selling follow the same grid: stages of work on the left, interior photography on the right. A repeatable composition makes the information easy to navigate.</p></div>
-        <figure class="media pair-left reveal-media"><a href="../assets/projects/olga-shafieva/olga-06.webp" target="_blank" rel="noopener noreferrer" aria-label="Open slide at full size: Property buying process with an interior and terrace photograph"><img src="../assets/projects/olga-shafieva/olga-06.webp" alt="Property buying process with an interior and terrace photograph" loading="lazy" decoding="async" width="1920" height="1080"></a></figure>
-        <figure class="media pair-right reveal-media"><a href="../assets/projects/olga-shafieva/olga-07.webp" target="_blank" rel="noopener noreferrer" aria-label="Open slide at full size: Property selling process alongside an apartment interior"><img src="../assets/projects/olga-shafieva/olga-07.webp" alt="Property selling process alongside an apartment interior" loading="lazy" decoding="async" width="1920" height="1080"></a></figure>
+        <figure class="media pair-left reveal-media"><a href="../assets/projects/olga-shafieva/olga-06.webp?v=20261105-en" target="_blank" rel="noopener noreferrer" aria-label="Open slide at full size: Property buying process with an interior and terrace photograph"><img src="../assets/projects/olga-shafieva/olga-06.webp?v=20261105-en" alt="Property buying process with an interior and terrace photograph" loading="lazy" decoding="async" width="1920" height="1080"></a></figure>
+        <figure class="media pair-right reveal-media"><a href="../assets/projects/olga-shafieva/olga-07.webp?v=20261105-en" target="_blank" rel="noopener noreferrer" aria-label="Open slide at full size: Property selling process alongside an apartment interior"><img src="../assets/projects/olga-shafieva/olga-07.webp?v=20261105-en" alt="Property selling process alongside an apartment interior" loading="lazy" decoding="async" width="1920" height="1080"></a></figure>
         <div class="case-story"><h2>Art as an extension<br>of space.</h2><p>The second chapter shifts the mood. Sculpture, vivid blue and red accents introduce art consultancy, while a shared typographic system connects the two disciplines.</p></div>
-        <figure class="media wide reveal-media"><a href="../assets/projects/olga-shafieva/olga-09.webp" target="_blank" rel="noopener noreferrer" aria-label="Open slide at full size: Art consultancy chapter with a blue portrait beside a sculpture"><img src="../assets/projects/olga-shafieva/olga-09.webp" alt="Art consultancy chapter with a blue portrait beside a sculpture" loading="lazy" decoding="async" width="1920" height="1080"></a></figure>
-        <figure class="media wide reveal-media"><a href="../assets/projects/olga-shafieva/olga-10.webp" target="_blank" rel="noopener noreferrer" aria-label="Open slide at full size: Art consultancy experience with a red composition and portrait"><img src="../assets/projects/olga-shafieva/olga-10.webp" alt="Art consultancy experience with a red composition and portrait" loading="lazy" decoding="async" width="1920" height="1080"></a></figure>
+        <figure class="media wide reveal-media"><a href="../assets/projects/olga-shafieva/olga-09.webp?v=20261105-en" target="_blank" rel="noopener noreferrer" aria-label="Open slide at full size: Art consultancy chapter with a blue portrait beside a sculpture"><img src="../assets/projects/olga-shafieva/olga-09.webp?v=20261105-en" alt="Art consultancy chapter with a blue portrait beside a sculpture" loading="lazy" decoding="async" width="1920" height="1080"></a></figure>
+        <figure class="media wide reveal-media"><a href="../assets/projects/olga-shafieva/olga-10.webp?v=20261105-en" target="_blank" rel="noopener noreferrer" aria-label="Open slide at full size: Art consultancy experience with a red composition and portrait"><img src="../assets/projects/olga-shafieva/olga-10.webp?v=20261105-en" alt="Art consultancy experience with a red composition and portrait" loading="lazy" decoding="async" width="1920" height="1080"></a></figure>
         <div class="case-story"><h2>Different needs.<br>A coherent presentation.</h2><p>Architecture, interiors and art come together in one story. Large headlines, contrasting photographs and quiet text blocks give the presentation a consistent rhythm.</p></div>
-        <figure class="media wide reveal-media"><a href="../assets/projects/olga-shafieva/olga-08.webp" target="_blank" rel="noopener noreferrer" aria-label="Open slide at full size: Specialisation in new developments and the resale market"><img src="../assets/projects/olga-shafieva/olga-08.webp" alt="Specialisation in new developments and the resale market" loading="lazy" decoding="async" width="1920" height="1080"></a></figure>
-        <figure class="media wide reveal-media"><a href="../assets/projects/olga-shafieva/olga-11.webp" target="_blank" rel="noopener noreferrer" aria-label="Open slide at full size: Art services for private clients, developers and interior designers"><img src="../assets/projects/olga-shafieva/olga-11.webp" alt="Art services for private clients, developers and interior designers" loading="lazy" decoding="async" width="1920" height="1080"></a></figure>
+        <figure class="media wide reveal-media"><a href="../assets/projects/olga-shafieva/olga-08.webp?v=20261105-en" target="_blank" rel="noopener noreferrer" aria-label="Open slide at full size: Specialisation in new developments and the resale market"><img src="../assets/projects/olga-shafieva/olga-08.webp?v=20261105-en" alt="Specialisation in new developments and the resale market" loading="lazy" decoding="async" width="1920" height="1080"></a></figure>
+        <figure class="media wide reveal-media"><a href="../assets/projects/olga-shafieva/olga-11.webp?v=20261105-en" target="_blank" rel="noopener noreferrer" aria-label="Open slide at full size: Art services for private clients, developers and interior designers"><img src="../assets/projects/olga-shafieva/olga-11.webp?v=20261105-en" alt="Art services for private clients, developers and interior designers" loading="lazy" decoding="async" width="1920" height="1080"></a></figure>
         <div class="case-credits"><p>Anna Dmitrieva<br>Presentation design</p><p>Olga Shafieva<br>Real estate &amp; art consultancy</p></div>
       </div>
       <a class="next-project" href="beauty-value.html" style="--next:#8ca4b6">

diff --git a/ru/index.html b/ru/index.html
@@ -159,7 +159,7 @@
         <span class="project-name">Ольга Шафиева</span>
         <span class="project-role">Дизайн презентации</span>
         <span class="project-year">2026</span>
-        <span class="project-preview"><img src="../assets/projects/olga-shafieva/olga-01.webp" alt="" loading="lazy" decoding="async" width="1920" height="1080"></span>
+        <span class="project-preview"><img src="../assets/projects/olga-shafieva/olga-01.webp?v=20261105-en" alt="" loading="lazy" decoding="async" width="1920" height="1080"></span>
       </a>
       <a class="project-row" href="projects/beauty-value.html" data-project="beauty-value" data-categories="presentations" style="--accent:#8ca4b6">
         <span class="project-no">08</span>

diff --git a/de/index.html b/de/index.html
@@ -159,7 +159,7 @@
         <span class="project-name">Olga Shafieva</span>
         <span class="project-role">Präsentationsdesign</span>
         <span class="project-year">2026</span>
-        <span class="project-preview"><img src="../assets/projects/olga-shafieva/olga-01.webp" alt="" loading="lazy" decoding="async" width="1920" height="1080"></span>
+        <span class="project-preview"><img src="../assets/projects/olga-shafieva/olga-01.webp?v=20261105-en" alt="" loading="lazy" decoding="async" width="1920" height="1080"></span>
       </a>
       <a class="project-row" href="projects/beauty-value.html" data-project="beauty-value" data-categories="presentations" style="--accent:#8ca4b6">
         <span class="project-no">08</span>

diff --git a/index.html b/index.html
@@ -159,7 +159,7 @@
         <span class="project-name">Olga Shafieva</span>
         <span class="project-role">Presentation design</span>
         <span class="project-year">2026</span>
-        <span class="project-preview"><img src="assets/projects/olga-shafieva/olga-01.webp" alt="" loading="lazy" decoding="async" width="1920" height="1080"></span>
+        <span class="project-preview"><img src="assets/projects/olga-shafieva/olga-01.webp?v=20261105-en" alt="" loading="lazy" decoding="async" width="1920" height="1080"></span>
       </a>
       <a class="project-row" href="projects/beauty-value.html" data-project="beauty-value" data-categories="presentations" style="--accent:#8ca4b6">
         <span class="project-no">08</span>
